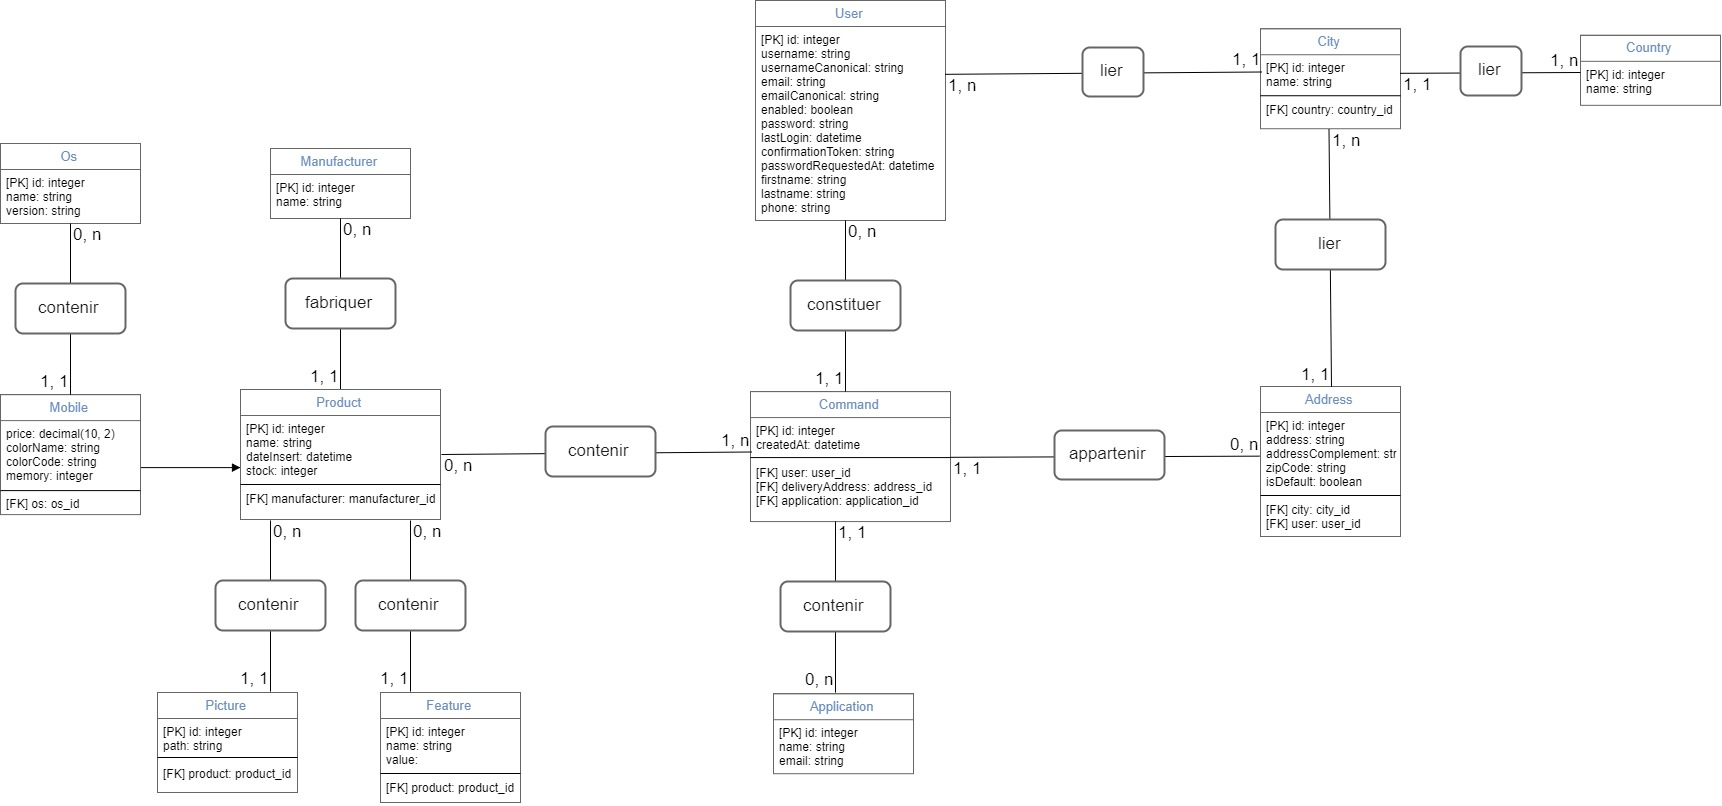
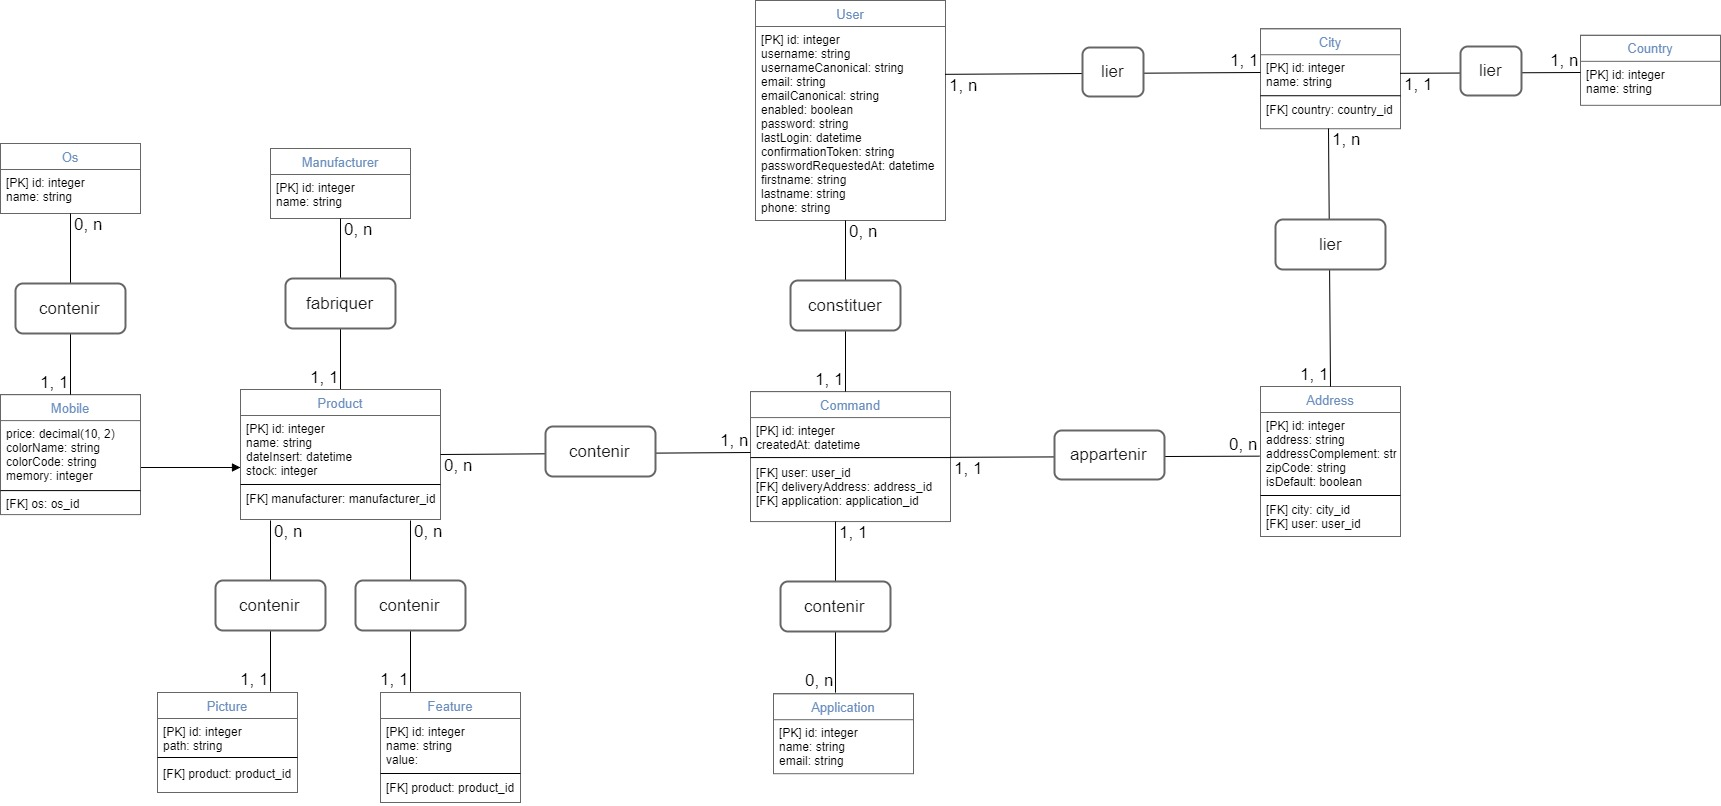
UML diagrams updated

diff --git a/README.md b/README.md
@@ -1,2 +1,13 @@
 # BileMo API
+
+[![Codacy Badge](https://api.codacy.com/project/badge/Grade/cd6375f063a44b079c7a842ec5cb7ae3)](https://www.codacy.com/app/bhalexx/bilemo?utm_source=github.com&utm_medium=referral&utm_content=bhalexx/bilemo&utm_campaign=badger)
+
 REST API for mobile phones websites - 7th OCR PHP/Symfony project
+
+----
+
+###Welcome on board!
+
+This is the repository of Bilemo API.
+You will find project diagrams in "diagrams" folder.
+**Open "api" folder to read instructions to use Bilemo API as a partner.**
